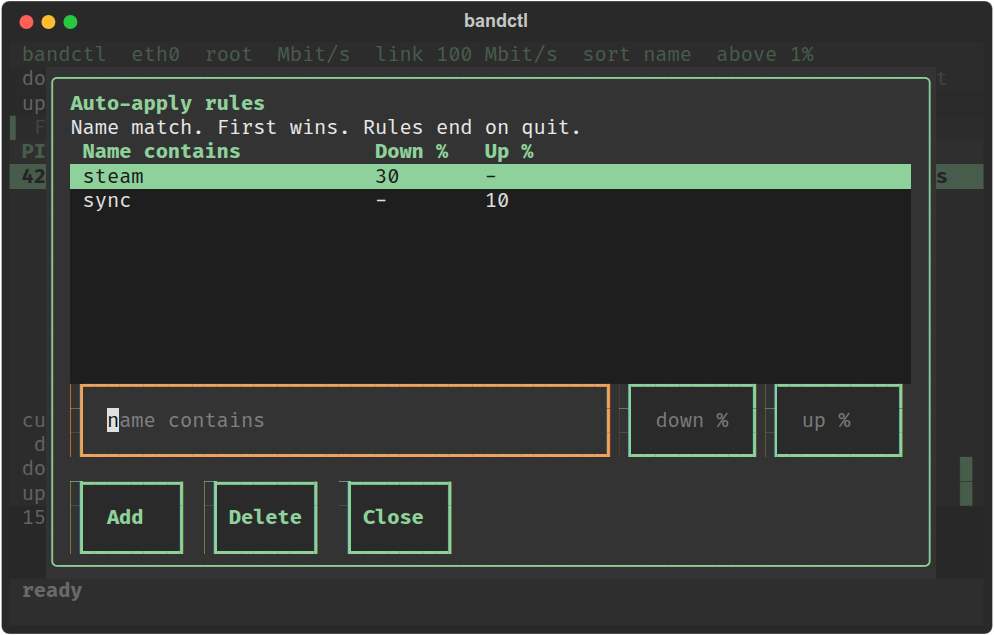
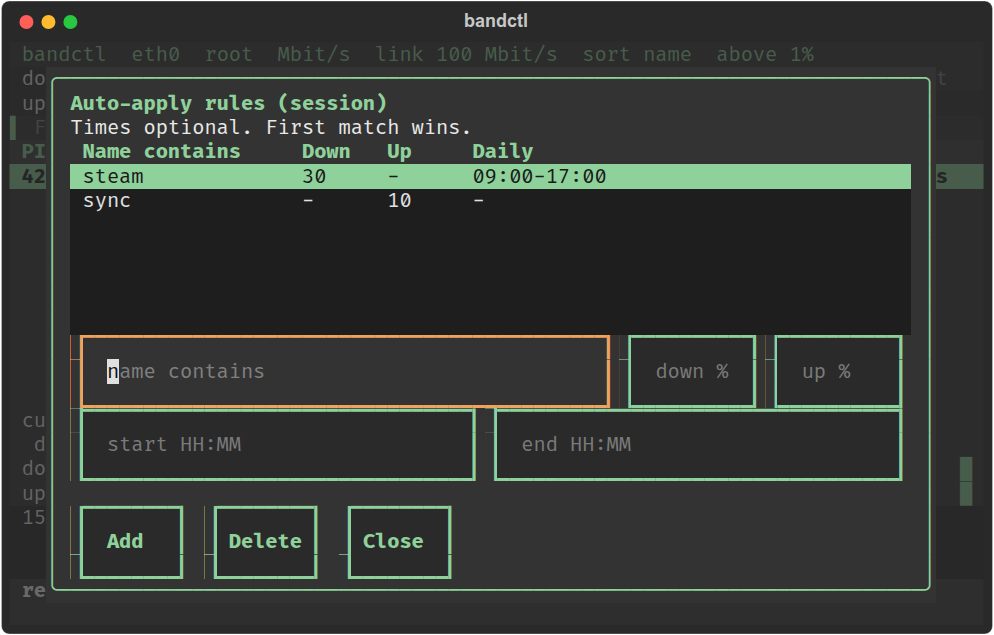
Add daily schedules to auto-apply rules

diff --git a/tests/test_app.py b/tests/test_app.py
@@ -154,6 +154,28 @@ class AppTests(unittest.IsolatedAsyncioTestCase):
             await app._apply_rules([proc])
             self.assertEqual(fake.shares[42].up_pct, 70)
 
+    async def test_scheduled_rule_takes_precedence_over_an_automatic_fallback(self):
+        from datetime import time
+        from bandctl.rules import AutoRule
+        from bandctl.schedule import DailyWindow
+
+        fake = FakeShaper()
+        proc = ProcessInfo(42, "steam", "steam", "user", 1, 100)
+        current = [time(8)]
+        app = BandctlApp(iface="eth0", shaper=fake, processes=lambda: [proc],
+                         link_bps=100_000_000, is_root=True, rates=lambda: {}, clock=lambda: current[0])
+        async with app.run_test(size=(100, 30)) as pilot:
+            app._rules = [AutoRule("steam", 30, None, DailyWindow(time(9), time(17))),
+                          AutoRule("steam", None, 10)]
+            await app._apply_rules([proc])
+            self.assertEqual((fake.shares[42].down_pct, fake.shares[42].up_pct), (None, 10))
+            current[0] = time(9)
+            await app._apply_rules([proc])
+            self.assertEqual((fake.shares[42].down_pct, fake.shares[42].up_pct), (30, None))
+            current[0] = time(17)
+            await app._apply_rules([proc])
+            self.assertEqual((fake.shares[42].down_pct, fake.shares[42].up_pct), (None, 10))
+
     def test_late_table_event_after_screen_closes_is_ignored(self):
         app = _app(FakeShaper())
         event = SimpleNamespace(data_table=SimpleNamespace(id="procs"))
@@ -227,6 +249,7 @@ class AppTests(unittest.IsolatedAsyncioTestCase):
             await pilot.press("t")
             await pilot.pause()
             self.assertIsInstance(app.screen, RulesScreen)
+            app.screen.query_one("#rule-add", Button).active_effect_duration = 0
             app.screen.query_one("#rule-name", Input).value = "steam"
             app.screen.query_one("#rule-down", Input).value = "30"
             await pilot.click("#rule-add")
@@ -239,13 +262,21 @@ class AppTests(unittest.IsolatedAsyncioTestCase):
             self.assertEqual(app.screen.query_one("#rule-table", DataTable).row_count, 0)
             app.screen.query_one("#rule-name", Input).value = "steam"
             app.screen.query_one("#rule-up", Input).value = "10"
+            app.screen.query_one("#rule-start", Input).value = "22:00"
             await pilot.click("#rule-add")
+            self.assertIn("both times", str(app.screen.query_one("#rule-status", Static).render()))
+            app.screen.query_one("#rule-end", Input).value = "06:00"
+            await pilot.click("#rule-add")
+            self.assertEqual(app.screen.query_one("#rule-table", DataTable).row_count, 1,
+                             str(app.screen.query_one("#rule-status", Static).render()))
             await pilot.click("#rule-close")
             await pilot.pause()
             self.assertEqual([(rule.name, rule.down_pct, rule.up_pct) for rule in app._rules], [("steam", None, 10)])
+            self.assertEqual(str(app._rules[0].window.start), "22:00:00")
+            self.assertEqual(str(app._rules[0].window.end), "06:00:00")
 
     async def test_rule_editor_fits_supported_sizes(self):
-        for width, height in ((60, 20), (80, 24), (100, 30), (120, 40), (160, 50), (77, 38)):
+        for width, height in ((60, 18), (60, 20), (80, 24), (100, 30), (120, 40), (160, 50), (77, 38)):
             with self.subTest(size=(width, height)):
                 app = _app(FakeShaper())
                 async with app.run_test(size=(width, height)) as pilot:
@@ -255,7 +286,8 @@ class AppTests(unittest.IsolatedAsyncioTestCase):
                     self.assertLessEqual(dialog.right, width)
                     self.assertLessEqual(dialog.bottom, height)
                     for query in ("#rules-title", "#rules-help", "#rule-table", "#rule-name", "#rule-down",
-                                  "#rule-up", "#rule-status", "#rule-add", "#rule-delete", "#rule-close"):
+                                  "#rule-up", "#rule-start", "#rule-end", "#rule-status", "#rule-add",
+                                  "#rule-delete", "#rule-close"):
                         region = app.screen.query_one(query).region
                         self.assertGreaterEqual(region.width, 3, query)
                         self.assertGreaterEqual(region.height, 1, query)

diff --git a/bandctl/widgets.py b/bandctl/widgets.py
@@ -9,6 +9,7 @@ from textual.widgets import Button, DataTable, Input, Static
 
 from bandctl.rates import RateError, parse_percent
 from bandctl.rules import AutoRule
+from bandctl.schedule import DailyWindow, parse_time
 
 
 class RootRequired(ModalScreen[None]):
@@ -47,14 +48,19 @@ class RulesScreen(ModalScreen[list[AutoRule]]):
 
     def compose(self) -> ComposeResult:
         yield Vertical(
-            Static("Auto-apply rules", id="rules-title"),
-            Static("Name match. First wins. Rules end on quit.", id="rules-help"),
+            Static("Auto-apply rules (session)", id="rules-title"),
+            Static("Times optional. First match wins.", id="rules-help"),
             DataTable(id="rule-table", cursor_type="row"),
             Horizontal(
                 Input(placeholder="name contains", id="rule-name"),
                 Input(placeholder="down %", id="rule-down"),
                 Input(placeholder="up %", id="rule-up"),
                 id="rule-fields",
+            ),
+            Horizontal(
+                Input(placeholder="start HH:MM", id="rule-start"),
+                Input(placeholder="end HH:MM", id="rule-end"),
+                id="rule-times",
             ),
             Static("", id="rule-status"),
             Horizontal(
@@ -68,9 +74,10 @@ class RulesScreen(ModalScreen[list[AutoRule]]):
 
     def on_mount(self) -> None:
         table = self.query_one("#rule-table", DataTable)
-        table.add_column("Name contains", width=22)
-        table.add_column("Down %", width=7)
-        table.add_column("Up %", width=7)
+        table.add_column("Name contains", width=16)
+        table.add_column("Down", width=5)
+        table.add_column("Up", width=5)
+        table.add_column("Daily", width=11)
         self._render_rules()
         self.query_one("#rule-name", Input).focus()
 
@@ -78,20 +85,26 @@ class RulesScreen(ModalScreen[list[AutoRule]]):
         table = self.query_one("#rule-table", DataTable)
         table.clear()
         for rule in self.rules:
-            table.add_row(rule.name, str(rule.down_pct or "-"), str(rule.up_pct or "-"))
+            window = "-" if rule.window is None else f"{rule.window.start:%H:%M}-{rule.window.end:%H:%M}"
+            table.add_row(rule.name, str(rule.down_pct or "-"), str(rule.up_pct or "-"), window)
 
     def on_button_pressed(self, event: Button.Pressed) -> None:
         if event.button.id == "rule-add":
             try:
                 down = parse_percent(self.query_one("#rule-down", Input).value, allow_empty=True)
                 up = parse_percent(self.query_one("#rule-up", Input).value, allow_empty=True)
-                rule = AutoRule(self.query_one("#rule-name", Input).value, down, up)
+                start = self.query_one("#rule-start", Input).value.strip()
+                end = self.query_one("#rule-end", Input).value.strip()
+                if bool(start) != bool(end):
+                    raise ValueError("enter both times or leave both blank")
+                window = DailyWindow(parse_time(start), parse_time(end)) if start else None
+                rule = AutoRule(self.query_one("#rule-name", Input).value, down, up, window)
             except (RateError, ValueError) as exc:
                 self.query_one("#rule-status", Static).update(str(exc))
                 return
             self.rules.append(rule)
             self._render_rules()
-            for query in ("#rule-name", "#rule-down", "#rule-up"):
+            for query in ("#rule-name", "#rule-down", "#rule-up", "#rule-start", "#rule-end"):
                 self.query_one(query, Input).value = ""
             self.query_one("#rule-status", Static).update("Rule added")
             self.query_one("#rule-name", Input).focus()

diff --git a/bandctl/rules.py b/bandctl/rules.py
@@ -93,14 +93,14 @@ class RuleTracker:
 
 
 class ScheduledOwnership:
-    """Track limits installed by a scheduled rule until they should end."""
+    """Track automatic limits so active rules can change with the clock."""
 
     def __init__(self) -> None:
         self._owned: dict[tuple[int, int], tuple[AutoRule, int]] = {}
         self._retry_at: dict[tuple[int, int], float] = {}
 
     def applied(self, proc: ProcessInfo, rule: AutoRule, revision: int) -> None:
-        if proc.start_ticks is not None and rule.window is not None:
+        if proc.start_ticks is not None:
             self._owned[(proc.pid, proc.start_ticks)] = (rule, revision)
 
     def forget(self, proc: ProcessInfo) -> None:
@@ -129,6 +129,9 @@ class ScheduledOwnership:
                 self._retry_at.pop(key, None)
                 continue
             if proc is None:
+                continue
+            if rule.window is None and rule not in rules:
+                self.forget(proc)
                 continue
             if first_match(rules, proc.comm, current) != rule and now >= self._retry_at.get(key, 0):
                 found.append((proc, revision))

diff --git a/tests/test_rules.py b/tests/test_rules.py
@@ -91,6 +91,14 @@ class RuleTests(unittest.TestCase):
         self.assertEqual(owner.expired([replacement], [], {42: (30, None, 7)}, time(10), 2), [])
         self.assertEqual(owner.expired([proc], [], {42: (30, None, 7)}, time(10), 3), [])
 
+    def test_deleting_an_always_active_rule_leaves_its_limit_in_place(self):
+        owner = ScheduledOwnership()
+        rule = AutoRule("steam", 30, None)
+        proc = ProcessInfo(42, "steam", "steam", "user", 1, 100)
+        owner.applied(proc, rule, 7)
+        self.assertEqual(owner.expired([proc], [], {42: (30, None, 7)}, time(10), 1), [])
+        self.assertEqual(owner.expired([proc], [rule], {42: (30, None, 7)}, time(10), 2), [])
+
 
 if __name__ == "__main__":
     unittest.main()

diff --git a/docs/USAGE.md b/docs/USAGE.md
@@ -65,7 +65,9 @@ The graphs beside the bars show the selected process's download and upload rates
 
 ## Auto-apply rules
 
-Press `t` to open the rule editor. Enter part of a process name and one or both percentages, then choose Add. Rules match process names without regard to case; they do not match command arguments. The first matching rule wins. Select a rule and choose Delete to remove it, or Close to return to the process list. Deleting a rule does not remove limits it already applied. Rules last until bandctl exits.
+Press `t` to open the rule editor. Enter part of a process name and one or both percentages, then choose Add. Rules match process names without regard to case; they do not match command arguments. The first active matching rule wins. Select a rule and choose Delete to remove it, or Close to return to the process list. Rules last until bandctl exits.
+
+For a daily schedule, enter both start and end in 24-hour `HH:MM` local time. The start is included and the end is excluded. An end earlier than the start crosses midnight. Leave both fields blank for an always-active rule. A scheduled limit is removed when its window ends or its rule is deleted, and can apply again in the next window. A limit from an always-active rule stays in place if that rule is deleted. A manual apply or remove takes precedence for that process instance.
 
 Rules apply to matching processes already running and to new matches found in later scans. A process that already has a limit is left alone. Removing its limit manually prevents automatic reapplication to that instance. A rule needs a known process start time so bandctl can check that the PID still refers to the scanned process. A failed application appears in the log and is retried after 15 seconds. Rules use the detected link speed or the last submitted budgets. Process scans pause while the editor is open.
 

diff --git a/README.md b/README.md
@@ -116,7 +116,7 @@ Keys:
 
 The log under the bars keeps the last successes and failures. A failed `tc`, `nft`, or cgroup write is one line there and in the status bar. The previous share is left in place when an update fails. A brand new share is rolled back, and the empty cgroup made for it is removed. If Remove cannot put a running process back in its old cgroup, the share stays listed so you can try again. A process that has already exited is dropped.
 
-Press `t` to add or delete auto-apply rules. Enter part of a process name and a download percent, an upload percent, or both. Matching ignores case; the first matching rule wins. Rules apply to matching running processes and new processes while bandctl is open. Existing limits are left alone. Removing a limit manually keeps it off for that process instance. Rules are kept for this session only and are cleared on exit. The log reports failures and retries them after 15 seconds.
+Press `t` to add or delete auto-apply rules. Enter part of a process name and a download percent, an upload percent, or both. Optionally enter daily start and end times in `HH:MM`; the limit is removed when the window ends. Matching ignores case; the first active matching rule wins. Rules apply to matching running processes and new processes while bandctl is open. Existing limits are left alone. A manual change takes precedence for that process instance. Rules are kept for this session only and are cleared on exit. The log reports failures and retries them after 15 seconds.
 
 Full steps and the manual check with a real download are in [docs/USAGE.md](docs/USAGE.md) and [docs/TESTING.md](docs/TESTING.md).
 

diff --git a/docs/TESTING.md b/docs/TESTING.md
@@ -15,6 +15,7 @@ python3 -m venv .venv
 | `tests/test_rates.py` | Percent parsing (rejects 0, 101, and junk). 30% of 100 Mbit/s is 30 Mbit/s and 3.75 MB/s. Over-commit keeps the ceils and shrinks the rates. |
 | `tests/test_history.py` | One-minute rate history, missing samples, process removal, and peak grouping for narrow graphs. |
 | `tests/test_rules.py` | Automatic rule validation, matching, process identity, manual overrides, and retry timing. |
+| `tests/test_schedule.py` | Daily local-time windows, including boundaries and overnight schedules. |
 | `tests/test_iface.py` | Default-route parsing from `ip route` and `/proc/net/route`. Speed `-1` is unknown. `--iface` names are checked against a fake `/sys/class/net`, bad names are refused, and an unknown name exits with code 2. |
 | `tests/test_procscan.py` | Socket inodes and flower endpoints against a fake `/proc`, plus one read of the real `/proc` that must not include this process. Listeners are dropped. IPv4-mapped IPv6 rows come back as IPv4. |
 | `tests/test_shaper.py` | The command list a fake host records: cgroup move, nft leaf match, flower filters for sockets that are already open, HTB rates, upload-only skips IFB, nft failure rolls the qdisc and the cgroup back, remove restores `fq_codel`, class byte counters become bit/s, crash recovery reads the state file. A failed new share removes its leaf cgroup. Teardown leaves a root qdisc it never replaced alone. Remove keeps the share when the cgroup write fails, and drops it when the process has exited. |

diff --git a/docs/ARCHITECTURE.md b/docs/ARCHITECTURE.md
@@ -8,7 +8,7 @@ bandctl is a Textual app in front of one `Shaper` object. The app never shells o
 
 `schedule.py` defines daily local-clock windows with inclusive starts and exclusive ends. A window can cross midnight; equal endpoints are rejected. Rule matching skips scheduled rules outside their window and picks the first active match.
 
-`ScheduledOwnership` tracks which limits were installed by scheduled rules. It identifies limits to remove when their rule stops winning, and drops ownership if the process instance or share revision changes. Failed removals are retried after a delay.
+`ScheduledOwnership` tracks limits installed by automatic rules. It identifies limits to remove when their rule stops winning, and drops ownership if the process instance or share revision changes. Deleting an always-active rule releases ownership without removing its limit. Failed removals are retried after a delay.
 
 Each successful apply gives its share a new in-memory revision. A caller can require that revision when removing a share, so a concurrent change does not get removed using an old decision.
 
